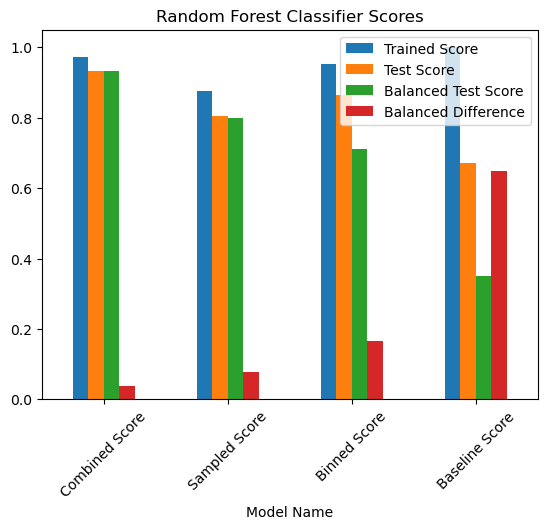
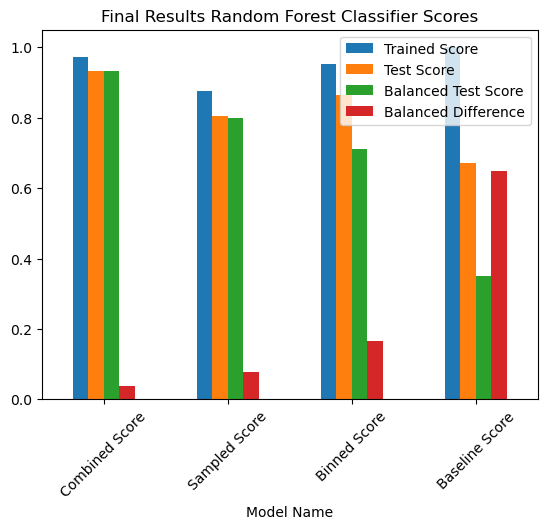
adding graphics to readme

Changed region(s): [[0.1865, 0.0, 0.8702, 0.0605]]

diff --git a/README.md b/README.md
@@ -52,7 +52,7 @@ archive.ics.uci.eduarchive.ics.uci.edu
 UCI Machine Learning Repository  
 Discover datasets around the world!  
 
-# Instructions- 
+# Instructions 
 1. Install the requirements
 
 2. Run main.ipynb file
@@ -65,25 +65,23 @@ Baseline and best score summary visualilaztion.
 
 
 Baseline Results Graph  
-![alt text](./presentation/baseline.png)  
-
-max depth  
-
+![alt text](./presentation/baseline.png) 
+  
+    
 ![alt text](./presentation/max_depth.png)  
-
-Best min_leaf  
-
+  
+  
 ![alt text](./presentation/min_leaf.png)  
-
-Best n_estimators  
-
+  
+  
 ![alt text](./presentation/n_estimators.png)  
-
-Best min_split  
-
+  
+  
 ![alt text](./presentation/min_split.png)  
+  
+  
+![alt text](./presentation/max_leaf.png)  
+  
 
-Final Results Graph    
-
-![alt text](./presentation/final_results.png)  
+![alt text](./presentation/final_results.png) 
 
